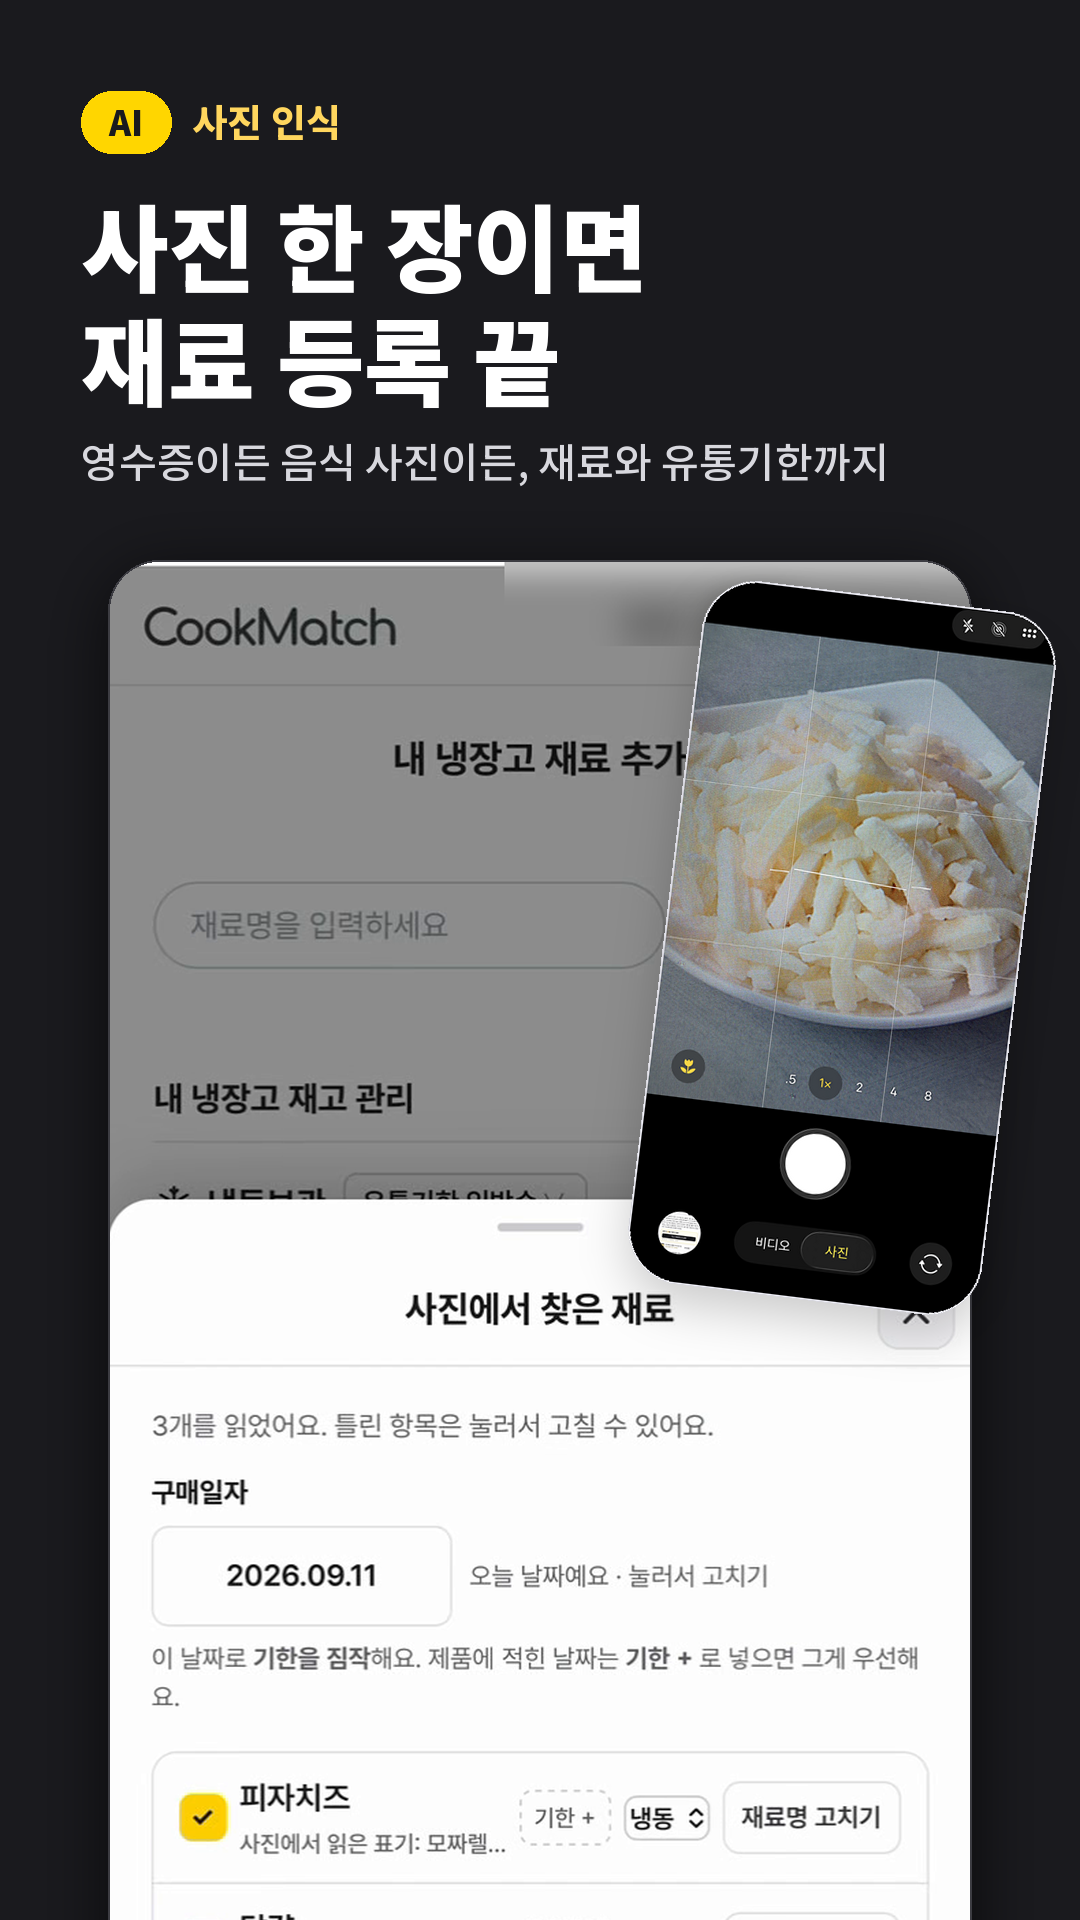
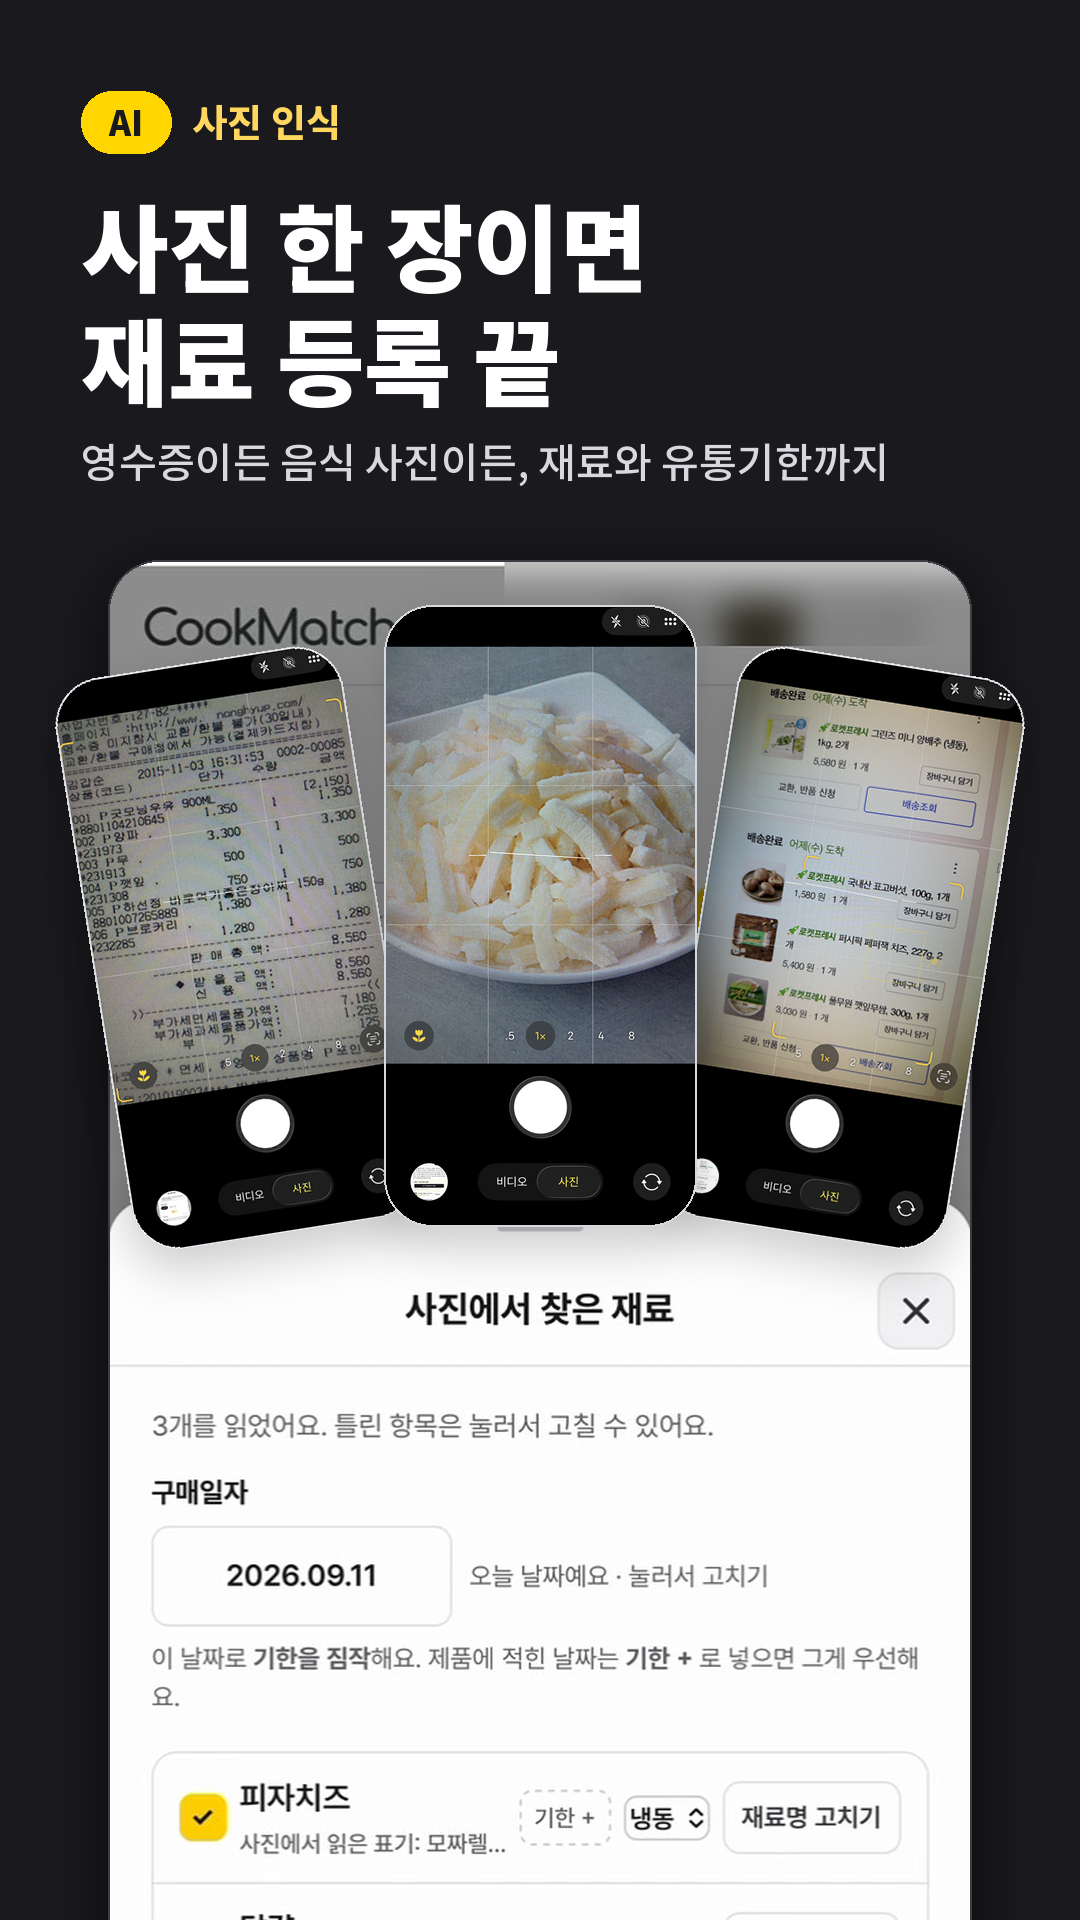
스토어 스크린샷 03(사진 인식) — 영수증·음식·쿠팡 촬영 화면 3장을 부채꼴로

Changed region(s): [[0.0306, 0.2812, 0.9778, 0.7188]]

diff --git a/store/make_store_assets.py b/store/make_store_assets.py
@@ -229,9 +229,16 @@ SOURCES = {
 #   crop: 원본 픽셀 좌표(상태바 자르기 전)  w: 캔버스 폭 대비 너비  angle: 반시계 방향 기울기(도)
 #   cx: 캔버스 폭 대비 중심 x  cy: 폰 화면 윗변에서 중심까지 거리(캔버스 폭 대비)
 INSETS = {
-    # 사진 찍는 화면(피자치즈) — 오른쪽 위에 작은 폰처럼
-    "photo": dict(src="store/sources/camera_pizza_cheese.png", crop=(0, 223, 1206, 2622),
-                  w=0.33, angle=-7, cx=0.78, cy=0.36, radius=0.05),
+    # 사진 찍는 화면 3장(영수증 · 음식 · 쿠팡 주문내역) — "영수증이든 음식 사진이든"을 한눈에.
+    # 위쪽에 부채꼴로 펼치고, 가운데 장을 맨 앞에(목록 순서대로 그려서 마지막이 위로 온다).
+    "photo": [
+        dict(src="store/sources/camera_receipt.png", crop=(0, 223, 1206, 2622),
+             w=0.27, angle=9, cx=0.22, cy=0.36, radius=0.045),
+        dict(src="store/sources/camera_coupang.png", crop=(0, 223, 1206, 2622),
+             w=0.27, angle=-9, cx=0.78, cy=0.36, radius=0.045),
+        dict(src="store/sources/camera_pizza_cheese.png", crop=(0, 223, 1206, 2622),
+             w=0.29, angle=0, cx=0.5, cy=0.33, radius=0.045),
+    ],
     # 재료 매칭도 설정 팝업
     "match": dict(src="store/sources/match_filter_popup.png", crop=(92, 642, 1114, 2166),
                   w=0.47, angle=-6, cx=0.72, cy=0.40, radius=0.04),
@@ -458,7 +465,9 @@ def render_slide(slide, W, H):
         ImageDraw.Draw(img).rounded_rectangle([px0, y, px0 + pw - 1, bottom - 1], radius=radius, outline=(60, 60, 66), width=max(2, W // 400))
 
     if slide["key"] in INSETS:
-        img = paste_inset(img, INSETS[slide["key"]], W, y)
+        specs = INSETS[slide["key"]]
+        for spec in specs if isinstance(specs, list) else [specs]:
+            img = paste_inset(img, spec, W, y)
     if slide.get("badge") == "sound":
         # 보이는 폰 화면의 가운데쯤(캔버스 아래로 흘러 나간 부분은 빼고)
         visible_bottom = min(bottom, H)
